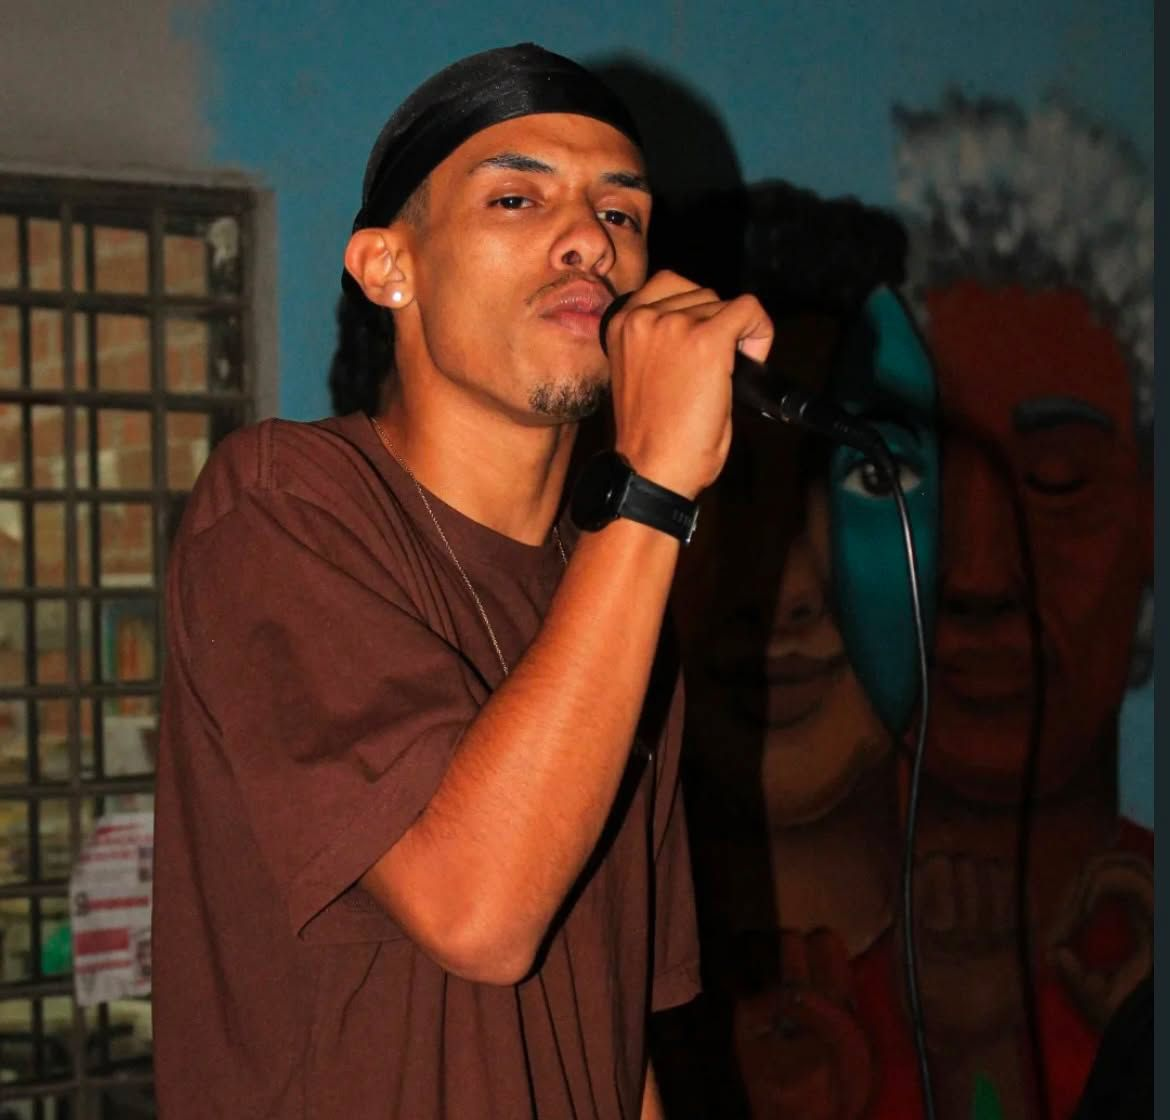
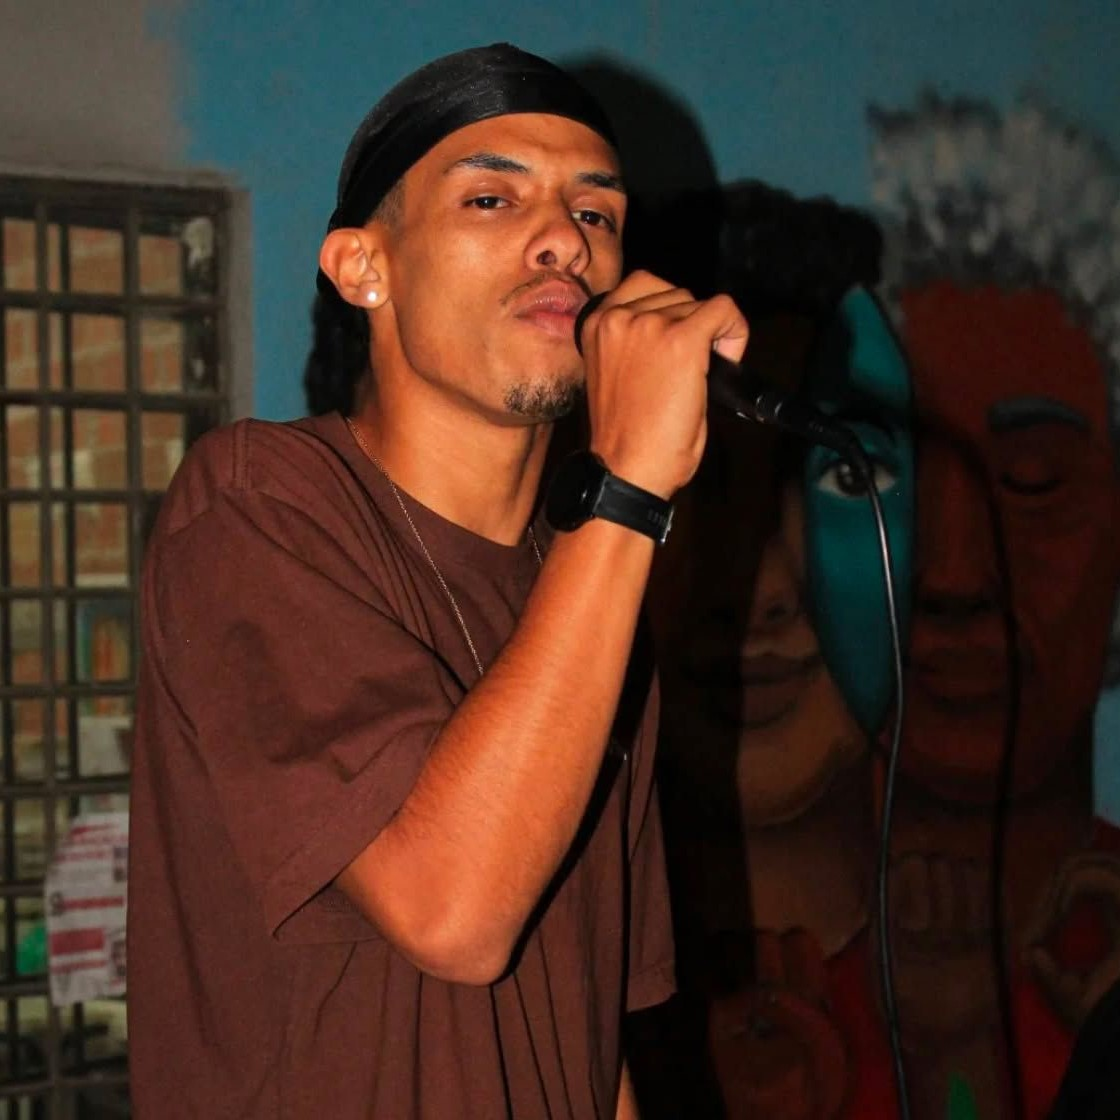
Insersão de personalidades

diff --git a/Cidades/curitiba.html b/Cidades/curitiba.html
@@ -133,7 +133,7 @@
 
       <div class="pessoas"
             data-nome="Cinderela do Gueto"
-            data-nascimento="★ 4 de Abril de 1999"
+            data-nascimento="★ 4 de abril de 1999"
             data-foto="../mainStyle/assets/images/cinderela.jpg"
             data-biografia="Rafaella Cicarelli, vulgo Mc Cicca/Cinderela do Gueto, mulher preta paulista, é Engenheira Florestal, Técnica em Meio Ambiente, Audiovisual, Produtora Cultural, Pesquisadora de Hip Hop, Mestranda em Meio Ambiente e Desenvolvimento na Universidade Federal do Paraná e Multiartista. Iniciou sua trajetória na arte em 2021 através do Coletivo Batalha da Cuesta onde iniciou suas primeiras produções culturais. Sua principal linguagem artística se dá por meio do Hip Hop, atuando como Mestre de Cerimônia, Locutora, Rapper, Compositora, Dj, B-girl, Arte Educadora, Escritora, Slammer, Slammaster e Poetisa. Já no audiovisual, atua como roterista, diretora, produtora, fotógrafa e social mídia. É CEO da   CDG Produções Soluções Socioambientais idealizadora do Núcleo de Estudos em Hip Hop (NUEHP), o primeiro do Paraná, Coletivo Brabes do Corre, e Coletivo Retomada Marginal. É apresentadora do programa Nós Mulheres Negras na Rádio Cultura de Curitiba e do Podcast Engenharia em Foco.">
             <img src="../mainStyle/assets/images/cinderela.jpg" alt="Foto da Pessoa">
@@ -146,6 +146,31 @@
             data-biografia="Me chamo Juliana Cidali, sou filha, mãe, esposa, empreendedora, concluí o ensino superior no Curso de Letras e lecionei por 12 anos em escolas de regiões periféricas de Curitiba.  Perdi minha família em um acidente, um caminhão passou por cima do carro e arrastou meu pai por 40 metros, como ele ficou muito debilitado abandonei a escola para cuidar dele, foram 90 dias no hospital e mais 5 anos cuidando dele em casa como se fosse meu filho.    A bijuteria foi uma fuga, para cura da dor, eu não queria tomar remédios e cuidar do meu pai dopada, então optei por algo que me ajudaria mentalmente e que não seria prejudicial à minha saúde.    A montagem das bijuterias foi se tornando algo mais sério, então passando o tempo de cuidado com ele, engravidei e mais uma vez tive que tomar uma decisão séria com relação ao trabalho.  Pois queria trabalhar com algo que pudesse conciliar com o cuidado com minha filha, então resolvi levar mais a sério o trabalho com as bijuterias, e resolvi registrar que deveria ter um nome.  Na hora parece que ouvi a voz da minha mãe dizendo Preta Fina, o nome não me era estranho, pois quando era pequena tinha um trabalho sobre racismo e não se falava tanto como falam hoje, e minha mãe me explicou que era algo que as pessoas me machucariam com atitudes e palavras e que não era para eu deixar de responder, mas que fizesse sempre com educação (mesmo que a agressão fosse grave, pois as pessoas que machucam esperam essa reação para nos acusar, para dizerem que os ruins somos nós).    Responda sem gritar, sem grosseria, seja uma PRETA FINA. Não quero nunca ver seu nome associado a brigas. Então só obedeci e registrei.    A marca existe oficialmente desde 2017 e se tornou minha principal renda, hoje tenho minhas peças expostas em feiras da prefeitura, particulares, algumas lojas e salões.    Todos os dias tenho desafios, os climáticos, o ter que estudar sempre e se atualizar nas tendências, o lidar com a concorrência desleal.    Para montagem das peças minha referência são peças étnicas, que misturam barbante, couro, metal e resinas.    Eu diria para quem está começando, que não é fácil, e que o segredo é não desistir, pois tem uma fila esperando que isso aconteça, que tem dias que vai vender muito, outros não vai vender nada e nem por isso você é menos empreendedor, e que para te motivar, tem muitos mas para apoiar nos momentos que as coisas estão ruins são poucos, o negócio é acreditar no seu potencial sempre e ter fé que as coisas boas uma hora vão chegar.">
             <img src="../mainStyle/assets/images/pretafina.jpeg" alt="Foto da Pessoa">
       </div>
+
+      <div class="pessoas"
+            data-nome="Giovana Chuchene"
+            data-nascimento="★ 26 de setembro de 2000"
+            data-foto="../mainStyle/assets/images/chuchene.jpg"
+            data-biografia="Sou atriz, cosplayer, bailarina, criadora de conteúdo e influenciadora digital. Sempre estive imersa no meio artístico, como sapateado e piano, mas foi no meio cosplay de me encontrei como uma referência artística afro-descendente no meio. Eu criava maneiras de adaptar personagens de animações japonesas entre outras mídias ao meu tom de pele e minhas características, como o cabelo afro. Dessa maneira, criei uma comunidade que se sentiu representada em meus cosplays, de forma que pudessemos adaptar personagens com autenticidade, evidenciando suas próprias características. Hoje, continuo criando arte e tento inspirar as pessoas a explorarem a criatividade sem deixar de ser quem são!">
+            <img src="../mainStyle/assets/images/chuchene.jpg" alt="Foto da Pessoa">
+      </div>
+
+      <div class="pessoas"
+            data-nome="Brinsan N'tchalá"
+            data-nascimento="★ 10 de setembro de 1994"
+            data-foto="../mainStyle/assets/images/brinsan.jpg"
+            data-biografia="Brinsan N'tchalá é cantora, compositora, poetisa, performer e produtora cultural curitibana, com mais de dez anos de trajetória dedicada à música e à ancestralidade afro-brasileira. Filha de Francisco N'tchalá — da etnia Balanta, combatente pela libertação da Guiné-Bissau, ela carrega na própria identidade a ponte entre a diáspora africana e a cultura brasileira contemporânea. Não à toa, seu nome, na língua Balanta, significa ❝Verdade Guardada❞.  Musicalmente, Brinsan funde Afrobeats, Pop, Funk, Hip-Hop e ritmos afro-brasileiros, criando uma sonoridade própria que já a levou a palcos e veículos internacionais. Em 2021, o álbum e videoclipe ❝Respeito❞ foi selecionado pelo Festival AFROPUNK, e em 2022 ela conquistou o troféu de Artista Revelação Feminina no Best of Guinea Bissau Awards, em Lisboa, além de participar da WOMEX (Worldwide Music Expo) e ser entrevistada e se apresentar ao vivo na RTP África. Também recebeu o Prêmio Palmares de Arte, da Fundação Palmares. Sua atuação vai além dos palcos: é autora do livro de poesias ❝A Mulher que me Habita❞, premiado no Prêmio Outras Palavras (2020) e lançado internacionalmente em 2025, com circulação no Brasil e no continente africano. Como ativista, luta pelos direitos das mulheres, das crianças, da população negra e dos povos tradicionais, e já recebeu homenagens do CONIPA, do Tribunal de Justiça do Paraná e da Câmara Municipal de São José dos Pinhais.  Entre seus principais reconhecimentos institucionais estão o Prêmio Sérgio Mamberti – Mestra de Cultura Afro (MinC/Cultura Viva, 2024), o Prêmio Memorial de Vivências (UNESPAR, 2022) e o Prêmio Reconhecimento de Trajetória em Cultura Afro (SEEC/PR, 2020). Desde 2024, atua como Agente Territorial de Cultura pelo Ministério da Cultura, no Programa Nacional dos Comitês de Cultura, fortalecendo redes criativas no Sul do Brasil.">
+            <img src="../mainStyle/assets/images/brinsan.jpg" alt="Foto da Pessoa">
+      </div>
+
+      <div class="pessoas"
+            data-nome="Lurdinha"
+            data-nascimento="★ 17 de março de 1961"
+            data-foto="../mainStyle/assets/images/lurdinha.jpeg"
+            data-biografia="Lurdinha Lima nasceu em 17 de março de 1961. Mulher negra, esposa, mãe, avó, costureira, empreendedora, criadora de moda e prefeita, construiu sua trajetória com as próprias mãos, transformando conhecimento, criatividade, identidade e compromisso social em propósito de vida.  Há 35 anos na arte da costura, Lurdinha encontrou na moda muito mais do que uma profissão: encontrou uma forma de expressão, resistência, pertencimento e valorização da identidade negra. Essa mesma sensibilidade a levou também ao campo da vida pública, onde passou a atuar como gestora e representante do povo, ocupando o cargo de prefeita com dedicação às pessoas e às comunidades.  Em 2008, iniciou sua trajetória à frente de seu ateliê, onde passou a desenvolver suas criações e aperfeiçoar uma linguagem própria. Em 2019, idealizou a LURDINHA MODA AFRO, marca que nasceu do desejo de colocar a cultura, a beleza e a força do povo negro no centro da moda.  Sua criação não se limita a roupas. Cada peça carrega uma história, uma memória e uma afirmação de identidade. Sua moda busca romper padrões, valorizar diferentes corpos, idades e belezas e mostrar que a mulher negra pode ocupar todos os espaços com dignidade, elegância e protagonismo — inclusive os espaços de poder.  Ao longo dessa caminhada, Lurdinha também passou a ocupar espaços em desfiles, eventos culturais e projetos de moda, levando para as passarelas uma mensagem que ultrapassa a estética: a moda pode ser instrumento de transformação social, autoestima, representatividade e reconhecimento. Na política, essa mesma visão se traduz em ações voltadas à inclusão, ao cuidado com as pessoas e à valorização da dignidade humana.  Na vida pessoal, Lurdinha construiu uma família que também faz parte de sua história. É casada há 40 anos com Luiz Fernando, com quem construiu sua caminhada. É mãe de Camila, 39 anos, e Pedro Henrique, 30 anos, e avó de Benício, Arthur e Anthony. A família representa uma de suas maiores conquistas e fontes de força.">
+            <img src="../mainStyle/assets/images/lurdinha.jpeg" alt="Foto da Pessoa">
+      </div>
+
     </div>
 
 

diff --git a/Cidades/pinhais.html b/Cidades/pinhais.html
@@ -124,11 +124,11 @@
       </div>
 
         <div class="pessoas"
-            data-nome=" "
-            data-nascimento="  "
-            data-foto="../mainStyle/assets/images/Busto.jpg"
-            data-biografia="  ">
-            <img src="../mainStyle/assets/images/Busto.jpg" alt="Foto da Pessoa">
+            data-nome="Elton Felix"
+            data-nascimento="★ 30 de julho de 1982"
+            data-foto="../mainStyle/assets/images/elton.jpeg"
+            data-biografia="Elton Felix, 44 anos, morador de Pinhais, é um profissional atuante na área de eventos como Cerimonialista e apaixonado pela cultura e pela arte. Participou de vários festivais de teatro da Prefeitura de Pinhais FETAEPI como DIRETOR, fortalecendo sua ligação com a cultura e a comunidade. Amante da música e, especialmente, do samba, atualmente exerce a função de Diretor de Carnaval da G.R.C.E.S. Império do Samba de Pinhais, contribuindo com dedicação para o crescimento e fortalecimento da agremiação e do Carnaval de Curitiba.">
+            <img src="../mainStyle/assets/images/elton.jpeg" alt="Foto da Pessoa">
       </div>
 
       <div class="pessoas"
